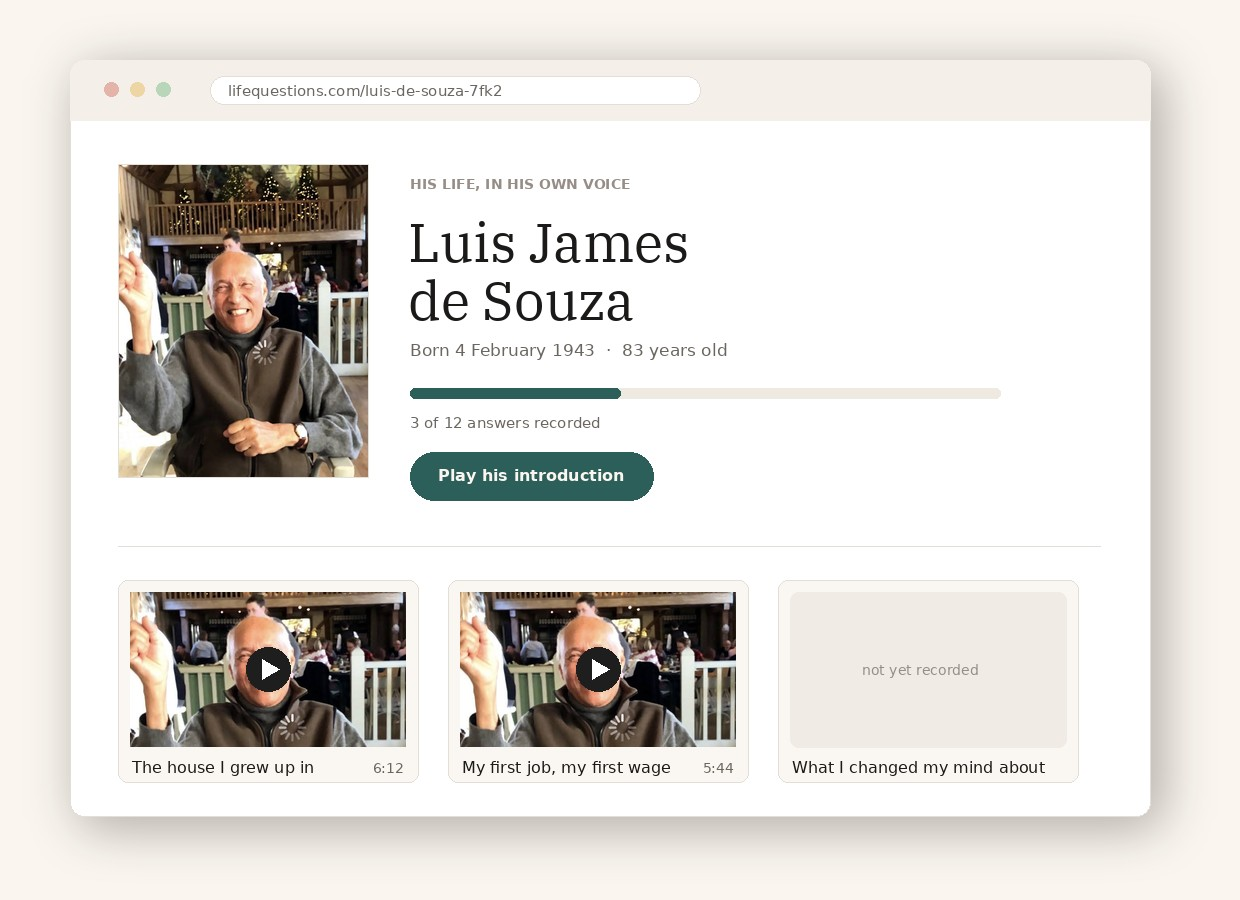
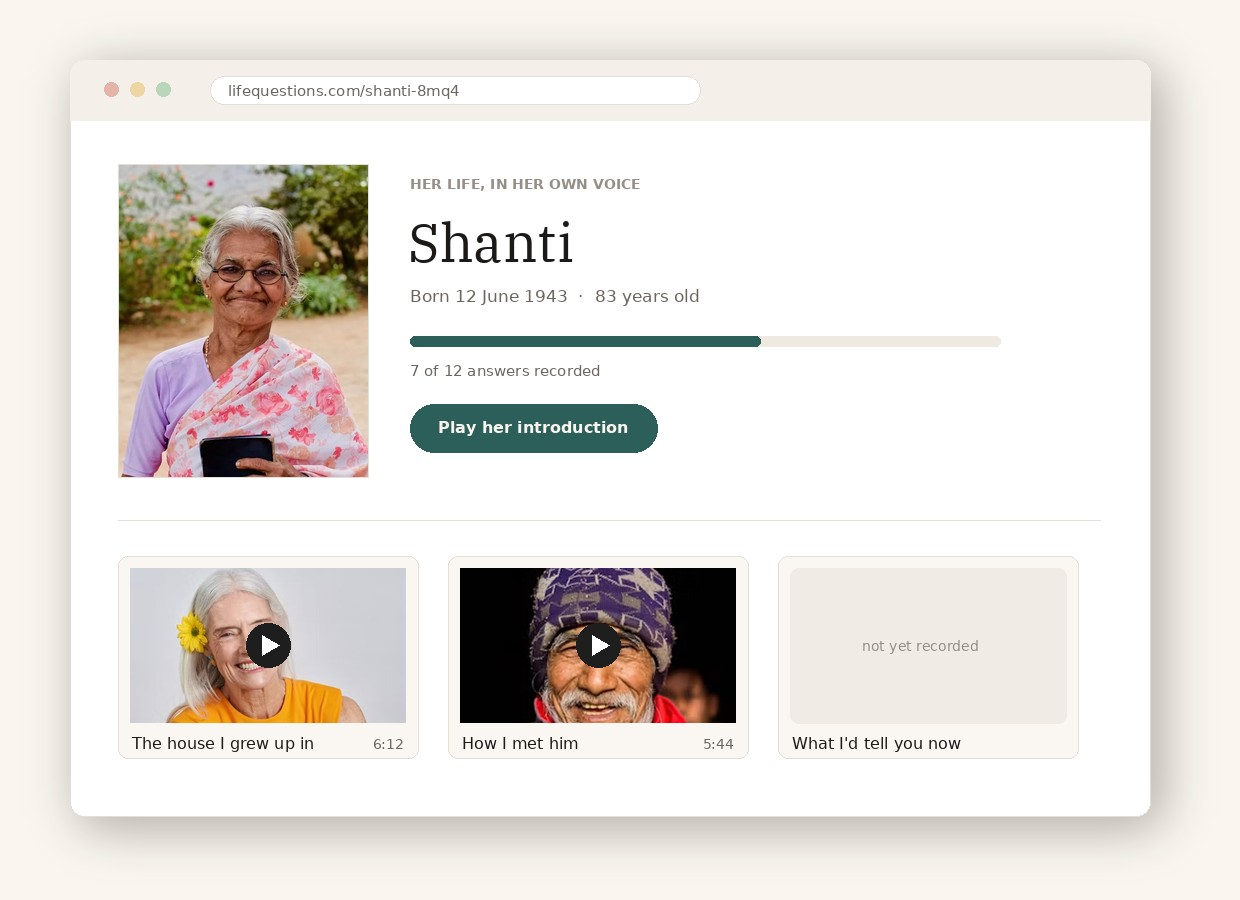
Drop the book section and stop every mockup showing the same man
The book section, its nav link, its footer link and the cover image
are gone. The hardback survives as a line in the add-ons, where it
belongs.

Luis appeared in the phone, the finished page and the book cover, so
the page looked like it had one customer. The phone now shows Halina
mid-recording and the finished page belongs to Shanti, with three
different faces in her answer cards.

The mockups are also larger: the rows run to 1340px and the image
column takes 1.32 against 1 for the words, so the browser window in
step three reads properly instead of sitting there like a thumbnail.

Claude-Session: https://claude.ai/code/session_01CfTQr8UF1faAvRQKiUysYz

diff --git a/hero-options.html b/hero-options.html
@@ -137,13 +137,14 @@ body[data-rows="2"] .track.second{display:flex}
 .illus{text-align:center;margin-top:1.6rem;font-size:.85rem;color:var(--ink3)}
 
 /* alternating rows */
-.rows{padding:clamp(3rem,7vw,5.6rem) 0}
-.row{display:grid;grid-template-columns:repeat(auto-fit,minmax(320px,1fr));gap:clamp(2rem,5vw,4.4rem);align-items:center;margin-bottom:clamp(3rem,6vw,5rem)}
+.rows{padding:clamp(3rem,7vw,5.6rem) 0;max-width:1340px}
+.row{display:grid;grid-template-columns:minmax(0,1.32fr) minmax(0,1fr);gap:clamp(2rem,5vw,4.4rem);align-items:center;margin-bottom:clamp(3.4rem,6.5vw,5.6rem)}
+@media (max-width:860px){.row{grid-template-columns:1fr}}
 .row:last-child{margin-bottom:0}
 .row.flip .txt{order:-1}
 @media (max-width:760px){.row.flip .txt{order:0}}
 .row img{border-radius:var(--r);box-shadow:0 34px 60px -44px var(--shadow)}
-.row .txt{max-width:44ch}
+.row .txt{max-width:42ch}
 .row .n{font-size:.8rem;font-weight:700;letter-spacing:.16em;text-transform:uppercase;color:var(--acc)}
 .row h2{font-size:clamp(1.8rem,3.6vw,2.6rem);line-height:1.1;margin:.7rem 0 .9rem}
 .row p{color:var(--ink2);font-size:1.14rem}
@@ -249,7 +250,6 @@ footer a:hover{color:var(--ink)}
     <span class="sp"></span>
     <a class="q" href="#reel">The answers</a>
     <a class="q" href="#how">How it works</a>
-    <a class="q" href="#book">The book</a>
     <a class="q" href="#price">Price</a>
     <a class="btn sm" href="#start">Start free</a>
   </div>
@@ -327,20 +327,6 @@ footer a:hover{color:var(--ink)}
       <h2>It becomes their page</h2>
       <p>Upload, and the page builds itself: their photograph, their dates, their answers, each one a window you press to hear them. One private link for the whole family &mdash; their sister, your kids, the cousins in Australia.</p>
       <p class="small">Nothing is public. No search engine, no directory, no strangers.</p>
-    </div>
-  </div>
-</div>
-
-<div class="wrap-band" id="book">
-  <div class="in sec">
-    <div class="row" style="margin-bottom:0">
-      <img src="book.jpg" alt="A hardback book of a life story">
-      <div class="txt">
-        <p class="eyebrow">And at the end of it</p>
-        <h2 style="font-size:clamp(1.9rem,4vw,2.8rem);line-height:1.08;margin:.7rem 0 .9rem">A book, in their own words</h2>
-        <p style="color:var(--ink2);font-size:1.05rem">Every answer is transcribed automatically, so their stories exist as words as well as video. Choose the ones you want, add the photographs, and we print a hardback &mdash; the thing that gets passed round at Christmas and ends up on a shelf for forty years.</p>
-        <p class="small">From &pound;59. One copy or fifteen.</p>
-      </div>
     </div>
   </div>
 </div>
@@ -528,7 +514,7 @@ footer a:hover{color:var(--ink)}
 <div class="in">
   <footer>
     <p>Life Questions &mdash; recorded lives, kept properly.<br>Made in Britain.</p>
-    <p><a href="#how">How it works</a> &nbsp;·&nbsp; <a href="#book">The book</a> &nbsp;·&nbsp; <a href="#price">Price</a> &nbsp;·&nbsp; <a href="#start">Start free</a></p>
+    <p><a href="#how">How it works</a> &nbsp;·&nbsp; <a href="#price">Price</a> &nbsp;·&nbsp; <a href="#start">Start free</a></p>
   </footer>
 </div>
 

diff --git a/lifequestions.html b/lifequestions.html
@@ -128,13 +128,14 @@ body[data-rows="2"] .track.second{display:flex}
 .illus{text-align:center;margin-top:1.6rem;font-size:.85rem;color:var(--ink3)}
 
 /* alternating rows */
-.rows{padding:clamp(3rem,7vw,5.6rem) 0}
-.row{display:grid;grid-template-columns:repeat(auto-fit,minmax(320px,1fr));gap:clamp(2rem,5vw,4.4rem);align-items:center;margin-bottom:clamp(3rem,6vw,5rem)}
+.rows{padding:clamp(3rem,7vw,5.6rem) 0;max-width:1340px}
+.row{display:grid;grid-template-columns:minmax(0,1.32fr) minmax(0,1fr);gap:clamp(2rem,5vw,4.4rem);align-items:center;margin-bottom:clamp(3.4rem,6.5vw,5.6rem)}
+@media (max-width:860px){.row{grid-template-columns:1fr}}
 .row:last-child{margin-bottom:0}
 .row.flip .txt{order:-1}
 @media (max-width:760px){.row.flip .txt{order:0}}
 .row img{border-radius:var(--r);box-shadow:0 34px 60px -44px var(--shadow)}
-.row .txt{max-width:44ch}
+.row .txt{max-width:42ch}
 .row .n{font-size:.8rem;font-weight:700;letter-spacing:.16em;text-transform:uppercase;color:var(--acc)}
 .row h2{font-size:clamp(1.8rem,3.6vw,2.6rem);line-height:1.1;margin:.7rem 0 .9rem}
 .row p{color:var(--ink2);font-size:1.14rem}
@@ -229,7 +230,6 @@ footer a:hover{color:var(--ink)}
     <span class="sp"></span>
     <a class="q" href="#reel">The answers</a>
     <a class="q" href="#how">How it works</a>
-    <a class="q" href="#book">The book</a>
     <a class="q" href="#price">Price</a>
     <a class="btn sm" href="#start">Start free</a>
   </div>
@@ -307,20 +307,6 @@ footer a:hover{color:var(--ink)}
       <h2>It becomes their page</h2>
       <p>Upload, and the page builds itself: their photograph, their dates, their answers, each one a window you press to hear them. One private link for the whole family &mdash; their sister, your kids, the cousins in Australia.</p>
       <p class="small">Nothing is public. No search engine, no directory, no strangers.</p>
-    </div>
-  </div>
-</div>
-
-<div class="wrap-band" id="book">
-  <div class="in sec">
-    <div class="row" style="margin-bottom:0">
-      <img src="book.jpg" alt="A hardback book of a life story">
-      <div class="txt">
-        <p class="eyebrow">And at the end of it</p>
-        <h2 style="font-size:clamp(1.9rem,4vw,2.8rem);line-height:1.08;margin:.7rem 0 .9rem">A book, in their own words</h2>
-        <p style="color:var(--ink2);font-size:1.05rem">Every answer is transcribed automatically, so their stories exist as words as well as video. Choose the ones you want, add the photographs, and we print a hardback &mdash; the thing that gets passed round at Christmas and ends up on a shelf for forty years.</p>
-        <p class="small">From &pound;59. One copy or fifteen.</p>
-      </div>
     </div>
   </div>
 </div>
@@ -508,7 +494,7 @@ footer a:hover{color:var(--ink)}
 <div class="in">
   <footer>
     <p>Life Questions &mdash; recorded lives, kept properly.<br>Made in Britain.</p>
-    <p><a href="#how">How it works</a> &nbsp;·&nbsp; <a href="#book">The book</a> &nbsp;·&nbsp; <a href="#price">Price</a> &nbsp;·&nbsp; <a href="#start">Start free</a></p>
+    <p><a href="#how">How it works</a> &nbsp;·&nbsp; <a href="#price">Price</a> &nbsp;·&nbsp; <a href="#start">Start free</a></p>
   </footer>
 </div>
 
